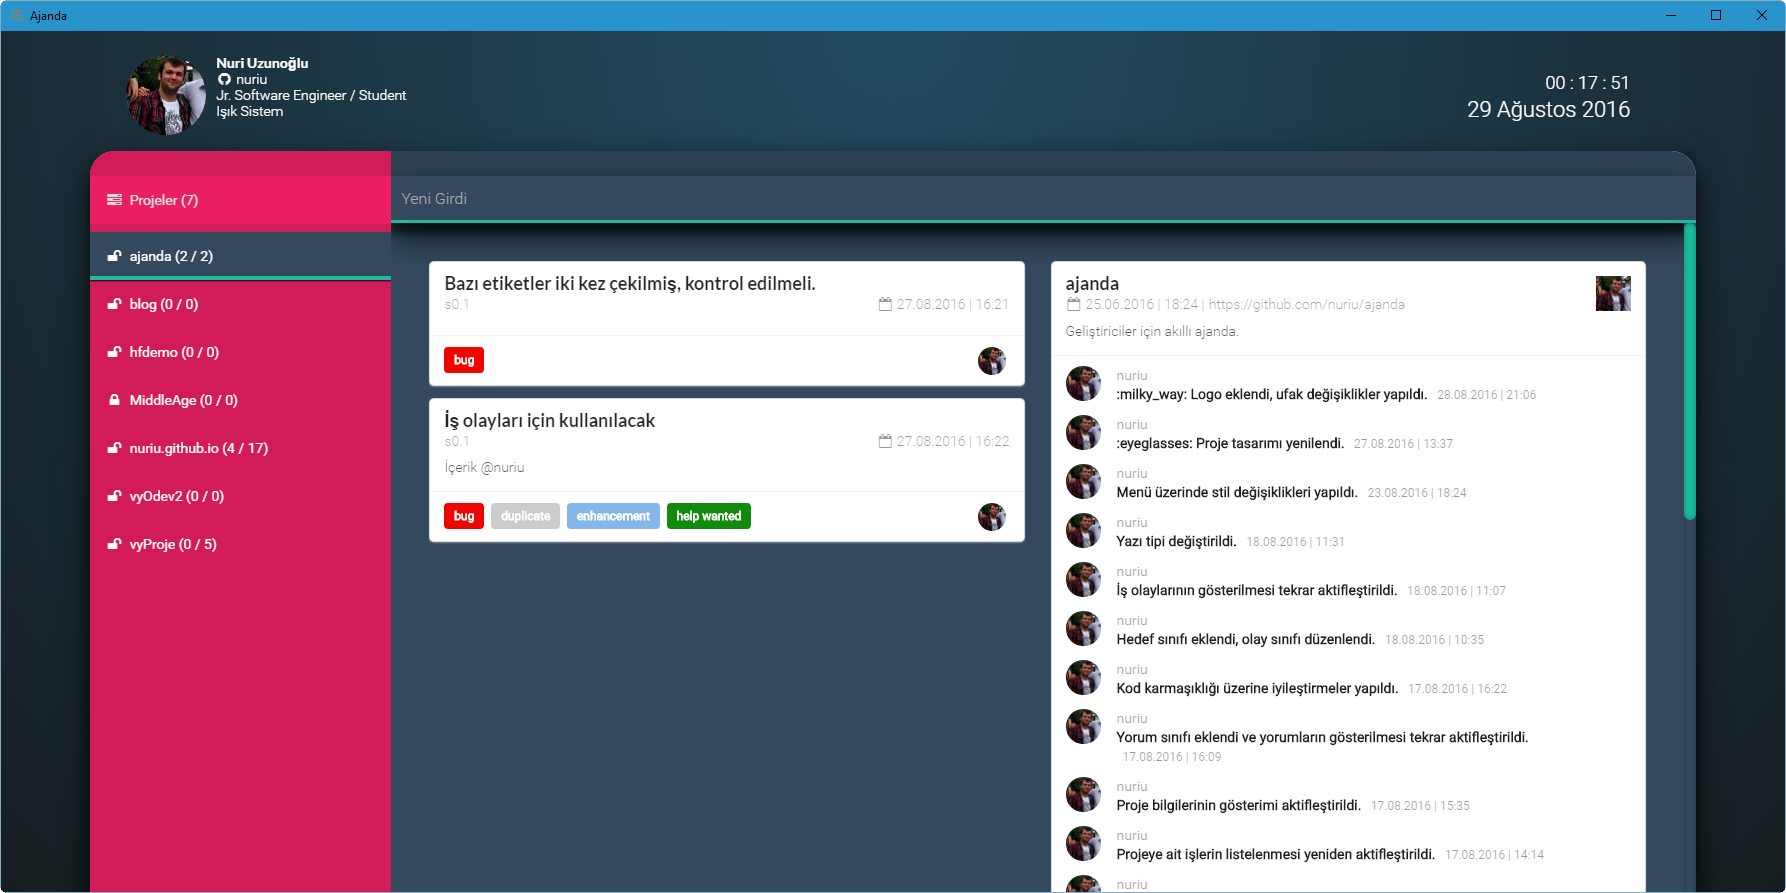
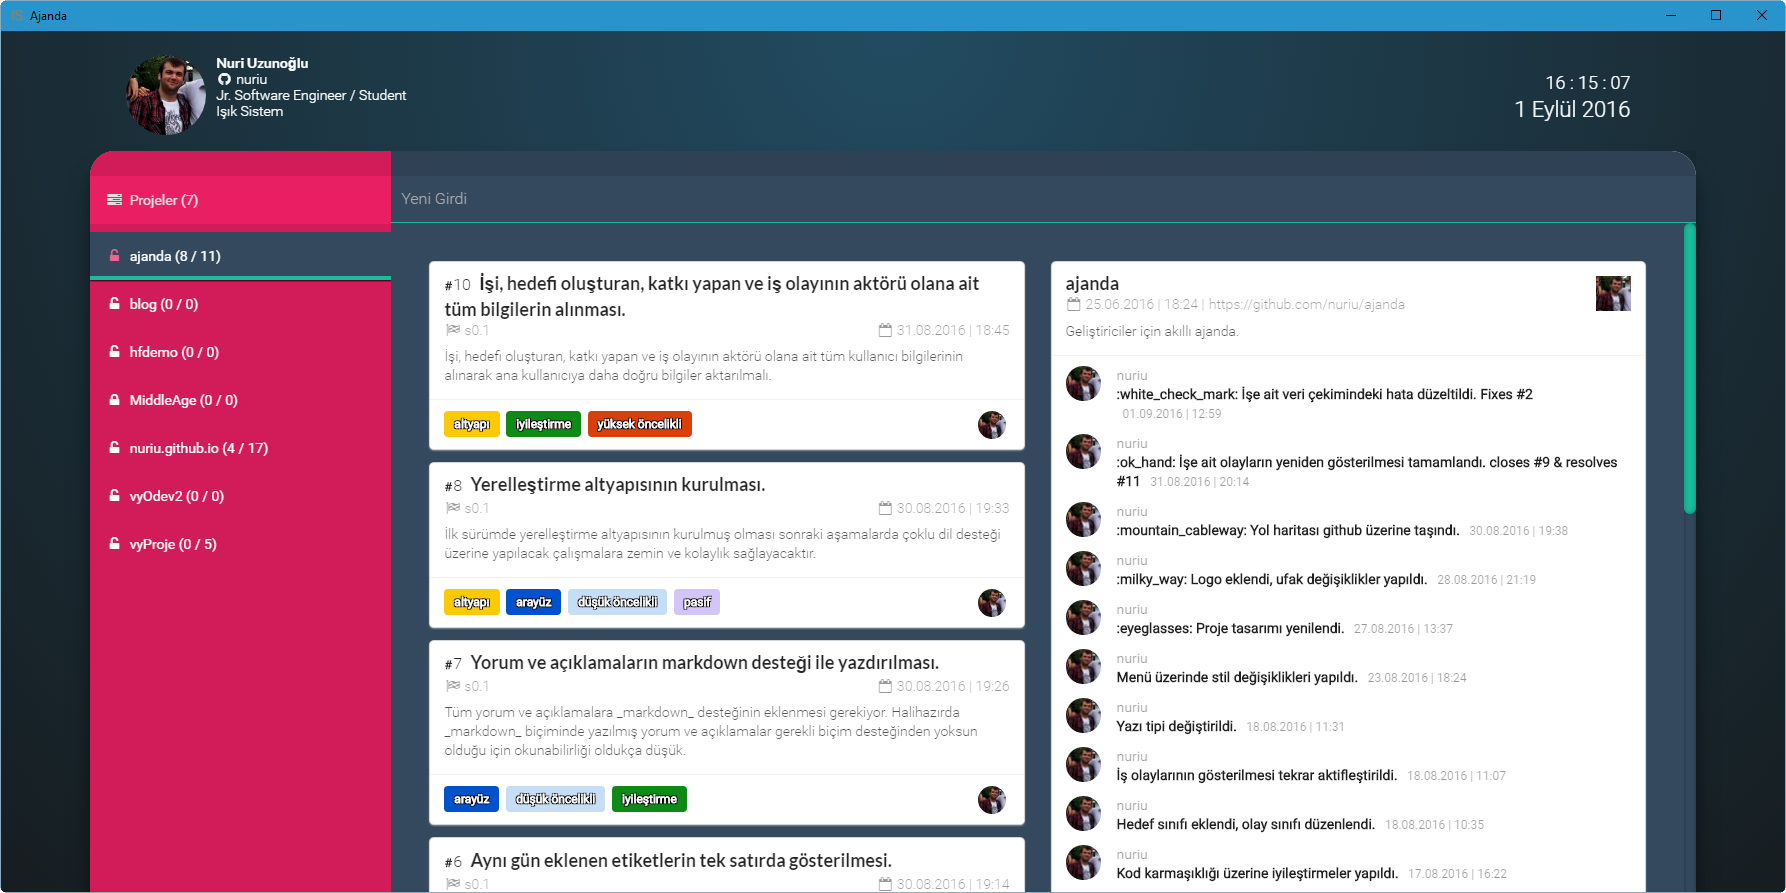
:hash: Proje işleri gösterimine işe ait numara eklendi.

diff --git a/app/src/is.ts b/app/src/is.ts
@@ -23,7 +23,7 @@ export class Is {
     public KapanmaTarihi: GithubTarihi;
 
     constructor(no: number, proje: Proje, baslik: string, icerik: string, durum: string,
-                olusturmaTarihi: GithubTarihi, guncellemeTarihi: GithubTarihi, kapanmaTarihi: GithubTarihi) {
+        olusturmaTarihi: GithubTarihi, guncellemeTarihi: GithubTarihi, kapanmaTarihi: GithubTarihi) {
         this.Proje = proje;
         this.Baslik = baslik;
         this.No = no;
@@ -40,7 +40,8 @@ export class Is {
     public bilgileriYazdir() {
         let ifade: string = "";
 
-        ifade += "<i class='close icon'></i><div class='header'>" + this.Baslik + "</div>";
+        ifade += "<i class='close icon'></i><div class='header'><span style='font-size: 12px;'>#</span>\
+                <span class='isNo'>" + this.No + "</span>" + this.Baslik + "</div>";
         ifade += "<div class='content'><div class='ui grid'><div class='row'><div class='three wide column'><div class='ui list'>";
         ifade += "<div class='item'>\
         <i class='calendar outline icon'></i> <div class='content'>" + this.GuncellemeTarihi.Tarih + "</div></div>";
@@ -76,9 +77,11 @@ export class Is {
     public ozetiYazdir(yerID: string) {
         if (this.Durum === "Açık") {
             let ozet: string = "\
-            <div class='ui fluid card' id='" + this.No + "'>\
+            <div class='ui fluid card'>\
             <div class='content'>\
-                <div class='header'>" + this.Baslik + "</div>\
+                <div class='header'> <span style='font-size: 12px;'>#</span>\
+                <span class='isNo'>" + this.No + "</span> \
+                <a href='#' id='" + this.No + "' style='color: gray;'>" + this.Baslik + "</a></div>\
                 <div class='meta'>\
                     <span class='right floated time'><i class='calendar outline icon'></i> " + this.GuncellemeTarihi.Tarih + "</span>";
 

diff --git a/app/css/akis.css b/app/css/akis.css
@@ -58,3 +58,19 @@
 	-webkit-box-shadow: inset 0 0 6px rgba(0,0,0,.3);
   background-color: #1abc9c;
 }
+
+.etiketYazi {
+    color: white;
+    text-shadow:
+      -1px -1px 0 #000,
+      1px -1px 0 #000,
+      -1px 1px 0 #000,
+      1px 1px 0 #000;  
+}
+
+.isNo {
+  font-weight: 300;
+  font-size: 16px;
+  padding-right: 5px;
+  margin-left: -2px;
+}

diff --git a/app/css/ajanda.css b/app/css/ajanda.css
@@ -64,12 +64,3 @@ aside {
 * {
   font-family: 'Roboto', sans-serif;
 }
-
-.etiketYazi {
-    color: white;
-    text-shadow:
-      -1px -1px 0 #000,
-      1px -1px 0 #000,
-      -1px 1px 0 #000,
-      1px 1px 0 #000;  
-}

diff --git a/README.md b/README.md
@@ -1,6 +1,6 @@
 # ![Ajanda](resim/logo.png)
 
-Geliştiriciler için akıllı ajanda.  
+Geliştiriciler için yardımcı ajanda.  
 
 > Proje Görünümü
 
@@ -28,7 +28,7 @@ Geliştiriciler için akıllı ajanda.
     - GitHub üzerinden kullanıcı girişi ve bilgilerin çekilmesi
     - Kilitli / açık projelerin listelenmesi
     - Seçilen projeye ait bilgilerin, katkıların (commits) ve işlerin (issues) listelenmesi
-    - Seçilen işe ait bilgilerin ve olayların getirilmesi
+    - Seçilen işe ait bilgilerin ve olayların gösterilmesi
 
 
 *Secret book Icon Artist:* **ArtDesigner.lv**
